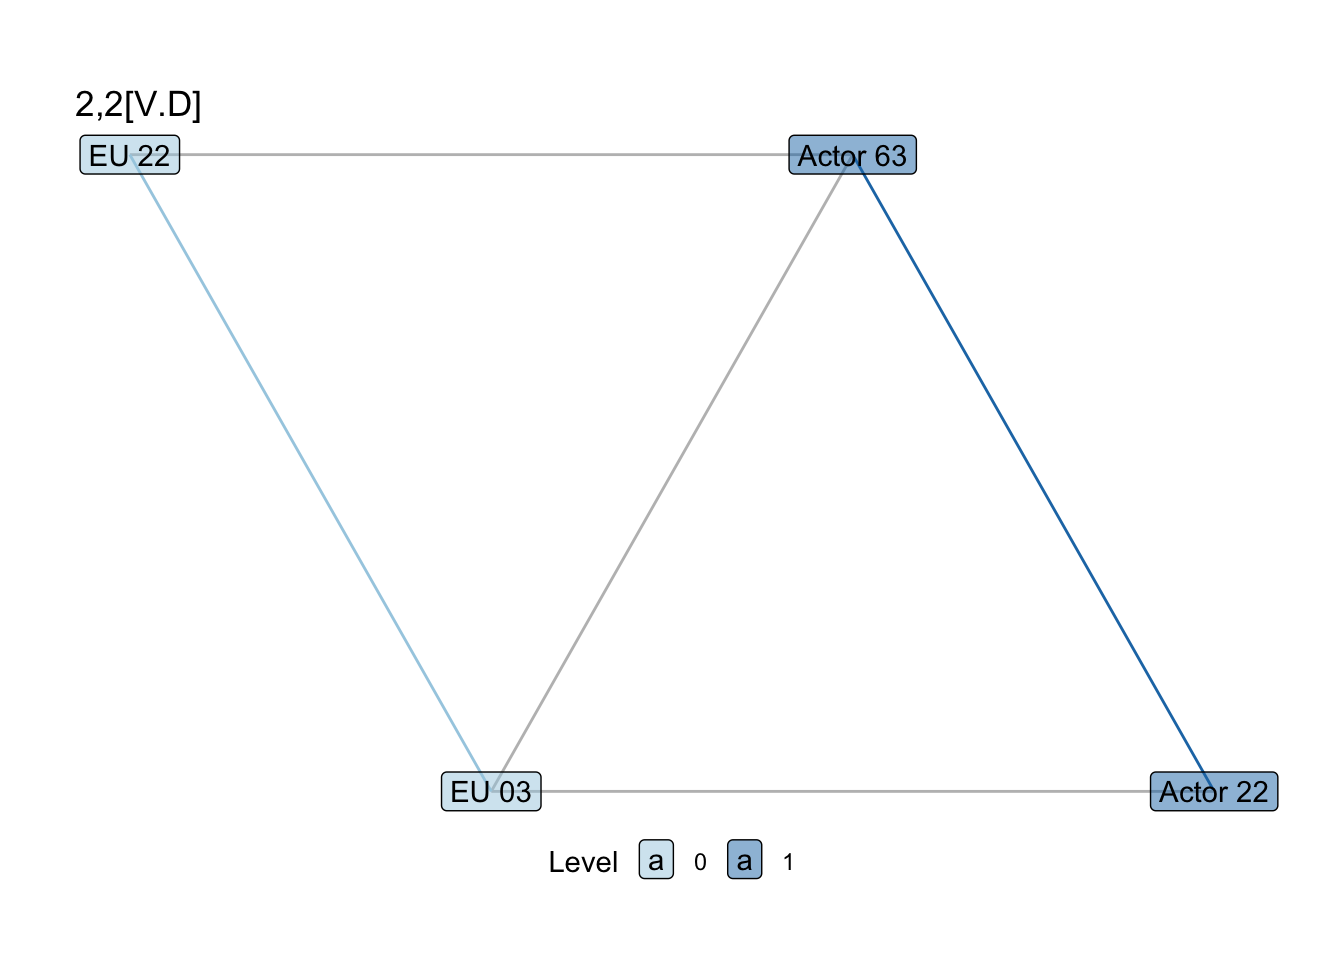
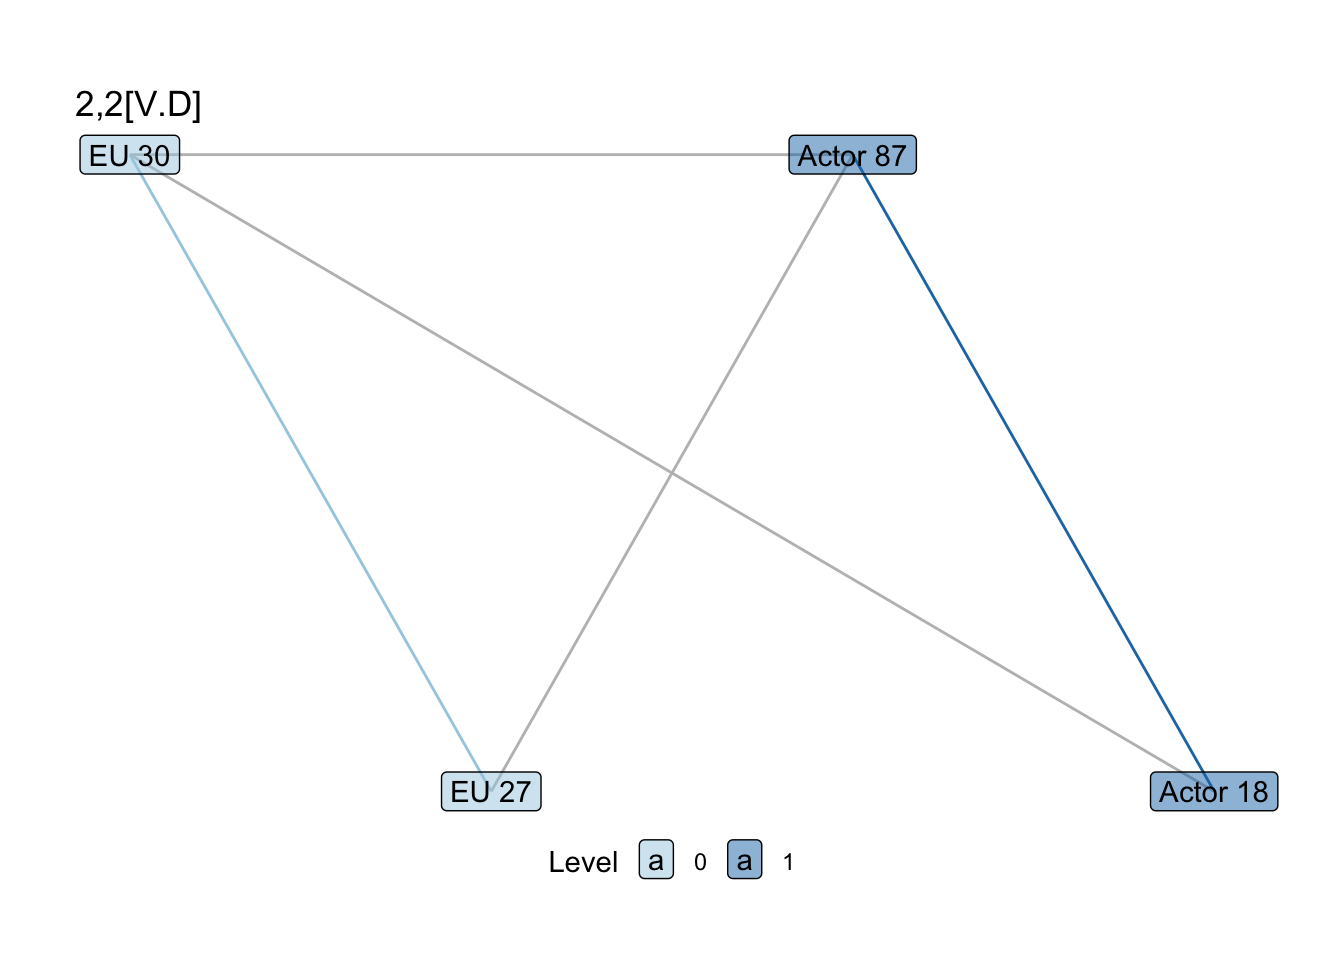
sen motifr

diff --git a/docs/posts/sen_motifr.html b/docs/posts/sen_motifr.html
@@ -238,7 +238,7 @@ pre > code.sourceCode > span > a:first-child::before { text-decoration: underlin
 </ol>
 <p>The code for simulating these data are below. While generic, they give a sense of the shape of the data for each network.</p>
 <div class="cell" data-layout-align="center">
-<div class="sourceCode cell-code" id="cb2"><pre class="sourceCode r code-with-copy"><code class="sourceCode r"><span id="cb2-1"><a href="#cb2-1" aria-hidden="true" tabindex="-1"></a><span class="fu">set.seed</span>(<span class="dv">12</span>)</span>
+<div class="sourceCode cell-code" id="cb2"><pre class="sourceCode r code-with-copy"><code class="sourceCode r"><span id="cb2-1"><a href="#cb2-1" aria-hidden="true" tabindex="-1"></a><span class="fu">set.seed</span>(<span class="dv">19</span>)</span>
 <span id="cb2-2"><a href="#cb2-2" aria-hidden="true" tabindex="-1"></a><span class="do">## Create social and ecological nodes, and organize with leading zero </span></span>
 <span id="cb2-3"><a href="#cb2-3" aria-hidden="true" tabindex="-1"></a><span class="do">## otherwise ordering will be annoying later</span></span>
 <span id="cb2-4"><a href="#cb2-4" aria-hidden="true" tabindex="-1"></a>S_nodes <span class="ot">&lt;-</span> <span class="fu">data.frame</span>(<span class="st">'name'</span> <span class="ot">=</span> <span class="dv">1</span><span class="sc">:</span><span class="dv">99</span>,</span>
@@ -447,15 +447,15 @@ TRUE
 <span id="cb22-6"><a href="#cb22-6" aria-hidden="true" tabindex="-1"></a>             <span class="at">directed =</span> <span class="cn">FALSE</span>)</span></code><button title="Copy to Clipboard" class="code-copy-button"><i class="bi"></i></button></pre></div>
 <div class="cell-output cell-output-stdout">
 <pre><code>Processing 1,2 motifs
-[ Classifying 301 gadgets ................................................... ]
+[ Classifying 302 gadgets ................................................... ]
 [ ########################################################################### ]
 Processing 2,2 motifs
-[ Classifying 301 gadgets ................................................... ]
+[ Classifying 302 gadgets ................................................... ]
 [ ########################################################################### ]</code></pre>
 </div>
 <div class="cell-output cell-output-stdout">
 <pre><code>              motif count
-1,2[II.C] 1,2[II.C]     8
+1,2[II.C] 1,2[II.C]    11
 2,2[I.D]   2,2[I.D]    20
 2,2[V.D]   2,2[V.D]     1</code></pre>
 </div>
@@ -545,10 +545,10 @@ Processing 2,2 motifs
 <span id="cb32-3"><a href="#cb32-3" aria-hidden="true" tabindex="-1"></a>                             <span class="at">directed =</span> <span class="cn">FALSE</span>)</span></code><button title="Copy to Clipboard" class="code-copy-button"><i class="bi"></i></button></pre></div>
 <div class="cell-output cell-output-stdout">
 <pre><code>Processing 1,2 motifs
-[ Classifying 301 gadgets ................................................... ]
+[ Classifying 302 gadgets ................................................... ]
 [ ########################################################################### ]
 Processing 2,2 motifs
-[ Classifying 301 gadgets ................................................... ]
+[ Classifying 302 gadgets ................................................... ]
 [ ########################################################################### ]</code></pre>
 </div>
 <div class="sourceCode cell-code" id="cb34"><pre class="sourceCode r code-with-copy"><code class="sourceCode r"><span id="cb34-1"><a href="#cb34-1" aria-hidden="true" tabindex="-1"></a><span class="fu">ggplot</span>(sim_ergm, <span class="fu">aes</span>(<span class="at">x =</span> sim_ergm[,<span class="dv">1</span>])) <span class="sc">+</span> </span>
@@ -610,7 +610,7 @@ Processing 2,2 motifs
 <span id="cb36-6"><a href="#cb36-6" aria-hidden="true" tabindex="-1"></a>zscore <span class="ot">&lt;-</span> (motif_count<span class="sc">-</span>mean_motif_sim)<span class="sc">/</span>sd_motif_sim</span>
 <span id="cb36-7"><a href="#cb36-7" aria-hidden="true" tabindex="-1"></a>zscore</span></code><button title="Copy to Clipboard" class="code-copy-button"><i class="bi"></i></button></pre></div>
 <div class="cell-output cell-output-stdout">
-<pre><code>[1] 0.2523347</code></pre>
+<pre><code>[1] 1.399311</code></pre>
 </div>
 </div>
 <p>This z-score is very close to zero, which makes sense: our networks were randomly generated and so we wouldn’t expected them to be statsitically different from other randomly generated networks.</p>
@@ -629,19 +629,19 @@ Processing 2,2 motifs
 <span id="cb38-11"><a href="#cb38-11" aria-hidden="true" tabindex="-1"></a>}</span></code><button title="Copy to Clipboard" class="code-copy-button"><i class="bi"></i></button></pre></div>
 <div class="cell-output cell-output-stdout">
 <pre><code>Processing 1,2 motifs
-[ Classifying 301 gadgets ................................................... ]
+[ Classifying 302 gadgets ................................................... ]
 [ ########################################################################### ]
 Processing 2,2 motifs
-[ Classifying 301 gadgets ................................................... ]
+[ Classifying 302 gadgets ................................................... ]
 [ ########################################################################### ]
 Processing 2,2 motifs
-[ Classifying 301 gadgets ................................................... ]
+[ Classifying 302 gadgets ................................................... ]
 [ ########################################################################### ]</code></pre>
 </div>
 <div class="sourceCode cell-code" id="cb40"><pre class="sourceCode r code-with-copy"><code class="sourceCode r"><span id="cb40-1"><a href="#cb40-1" aria-hidden="true" tabindex="-1"></a><span class="fu">head</span>(results)</span></code><button title="Copy to Clipboard" class="code-copy-button"><i class="bi"></i></button></pre></div>
 <div class="cell-output cell-output-stdout">
 <pre><code>              motif count mean_motif_sim sd_motif_sim     zscore
-1,2[II.C] 1,2[II.C]     8           7.34     2.615573 0.25233472
+1,2[II.C] 1,2[II.C]    11           7.34     2.615573 1.39931073
 2,2[I.D]   2,2[I.D]    20          14.26     5.279185 1.08728901
 2,2[V.D]   2,2[V.D]     1           0.96     1.292995 0.03093592</code></pre>
 </div>

diff --git a/docs/cv.html b/docs/cv.html
@@ -173,9 +173,8 @@ h1.title, h2.subtitle, h3.subtitle {
 <hr>
 <section id="education" class="level3">
 <h3 class="anchored" data-anchor-id="education">EDUCATION</h3>
-<p>Ph.D., Ecology<br>
-Areas of Emphasis: Environmental Policy <span style="float:right;">2023</span><br>
-Designated Emphasis: Computational Social Science<br>
+<p>Ph.D., Environmental Policy emphasis in Ecology <span style="float:right;">2023</span><br>
+Secondary emphasis: Computational Social Science<br>
 University of California Davis, Davis, CA</p>
 <p>M.Sc., Organic Farming and Food Production Systems <span style="float:right;">2015</span><br>
 Newcastle University, Newcastle upon Tyne, United Kingdom</p>
@@ -202,16 +201,17 @@ College of Charleston, New Student Programs</p>
 <p><strong>Wood, L.</strong>, Scott, T. (2022) Transportation agencies as consumers and producers of science: The case of state, regional, and county transportation agencies in California. <em>Transport Policy 128</em>. <a href="https://doi.org/10.1016/j.tranpol.2022.08.016">https://doi.org/10.1016/j.tranpol.2022.08.016</a>.</p>
 <p><strong>Wood, L.</strong>, Lubell, M., Rudnick, J., Khalsa, S.D.S., Tatge, S., Sears, M., Brown, P. (2021) Mandatory information-based policy tools facilitate California farmers’ learning about nitrogen management. <em>Land Use Policy 114</em>. <a href="https://doi.org/10.1016/j.landusepol.2021.105923">https://doi.org/10.1016/j.landusepol.2021.105923</a>.</p>
 <p>Rudnick, J., Lubell, M., Khalsa, S.D.S., Tatge, S., <strong>Wood, L.</strong>, Sears, M., Brown, P. (2021). A Farm Systems Approach to the Adoption of Sustainable Nitrogen Management Practices in California. <em>Agriculture and Human Values 38</em>. <a href="https://doi.org/10.1007/s10460-021-10190-5">https://doi.org/10.1007/s10460-021-10190-5</a>.</p>
+</section>
+<section id="working-papers" class="level4">
+<h4 class="anchored" data-anchor-id="working-papers">WORKING PAPERS</h4>
+<p><strong>Wood, L.</strong>, Vantaggiato, F.P., Scott, T.A. Tracing the path of knowledge on ‘environmental governance processes’ for theory-building. Revise &amp; resubmit.</p>
+<p>Scott, T., Kim, S., <strong>Wood, L.</strong> Open access, professional popularity, and agency involvement drive science referenced in U.S. EPA regulatory impact analyses from 2000 to 2022. Revise &amp; resubmit.</p>
 <!---
 #### UNDER REVIEW     
 
 **Wood, L.**, Lubell, M. Resource constellations and institutional logics shape network-building processes in the organic seed niche. Revise & resubmit.
 
 **Wood, L.**, Lubell, M. Mapping the spatial structure of the organic seed system: A network approach to the Global Innovation System framework. Under review. 
-
-**Wood, L.**, Vantaggiato, F.P., Scott, T.A. Tracing the path of knowledge on ‘environmental governance processes’ for theory-building. Revise & resubmit.
-
-Scott, T., Kim, S., **Wood, L.** Open access, professional popularity, and agency involvement drive science referenced in U.S. EPA regulatory impact analyses from 2000 to 2022. Revise & resubmit.
 
 #### WORKING PAPERS  
 
@@ -224,13 +224,16 @@ Scott, T., Kim, S., **Wood, L.** Open access, professional popularity, and agenc
 **Wood, L.**, Pascucci, S. Entanglements of ecological systems and organizational transformation in the organic seed niche.  
 
 van denBroek, O.M, **Wood, L.**, Moon, J. Knudsen, J. Organizing cross-sector partnerships: Towards a network governance model. 
+
+#### CONFERENCE PAPERS 
+
+**Wood, L.**, Struthers, C., Scott, T.A., Kim, S. Science politics: How political context shapes public agencies’ use of science in environmental policymaking. Environmental Politics and Governance, 2024.  
+
+**Wood, L.** How public and private innovations shape environmental sustainability: Evidence from a century of plant patents. Environmental Politics and Governance, 2024.    
+
+**Wood, L.**, Pascucci, S. Entanglements of ecological systems and organizational transformation in the organic seed niche. European Group for Organizational Studies, 2024. 
+
 --->
-</section>
-<section id="conference-papers" class="level4">
-<h4 class="anchored" data-anchor-id="conference-papers">CONFERENCE PAPERS</h4>
-<p><strong>Wood, L.</strong>, Struthers, C., Scott, T.A., Kim, S. Science politics: How political context shapes public agencies’ use of science in environmental policymaking. Environmental Politics and Governance, 2024.</p>
-<p><strong>Wood, L.</strong> How public and private innovations shape environmental sustainability: Evidence from a century of plant patents. Environmental Politics and Governance, 2024.</p>
-<p><strong>Wood, L.</strong>, Pascucci, S. Entanglements of ecological systems and organizational transformation in the organic seed niche. European Group for Organizational Studies, 2024.</p>
 </section>
 <section id="reports" class="level4">
 <h4 class="anchored" data-anchor-id="reports">REPORTS</h4>

diff --git a/docs/posts.html b/docs/posts.html
@@ -261,7 +261,7 @@ window.Quarto = {
 </a>
 </div>
 </div>
-<div class="quarto-post image-right" data-index="2" data-listing-date-sort="1723244400000" data-listing-file-modified-sort="1723319206856" data-listing-date-modified-sort="NaN" data-listing-reading-time-sort="18" data-listing-word-count-sort="3444">
+<div class="quarto-post image-right" data-index="2" data-listing-date-sort="1723244400000" data-listing-file-modified-sort="1724576839898" data-listing-date-modified-sort="NaN" data-listing-reading-time-sort="18" data-listing-word-count-sort="3444">
 <div class="thumbnail">
 <p><a href="./posts/sen_motifr.html" class="no-external"></a></p><a href="./posts/sen_motifr.html" class="no-external">
 <p class="card-img-top"><img src="posts/sen_motifr_files/figure-html/unnamed-chunk-11-1.png"  class="thumbnail-image card-img"/></p>

diff --git a/docs/workshops.html b/docs/workshops.html
@@ -157,6 +157,9 @@ h1.title {
 }
 </style>
 <hr>
+<p><a href="https://liza-wood.github.io/sen_motifr/">Preparing data for social-ecological network analysis with <code>motifR</code></a><br>
+An overview on preparing social-ecological network for analysis in <code>motifR</code> along with the use of basic functions.</p>
+<hr>
 <p><a href="https://liza-wood.github.io/intro-shiny/">Introduction to <code>flexdashboard</code> with interactive data visualiation</a><br>
 An introduction to making interactive dashboards with <code>flexdashboard</code> and Shiny integration. This was a brief lesson designed for the UC Davis Ecology Graduate Group Data Visualization ECL 290.</p>
 <hr>
